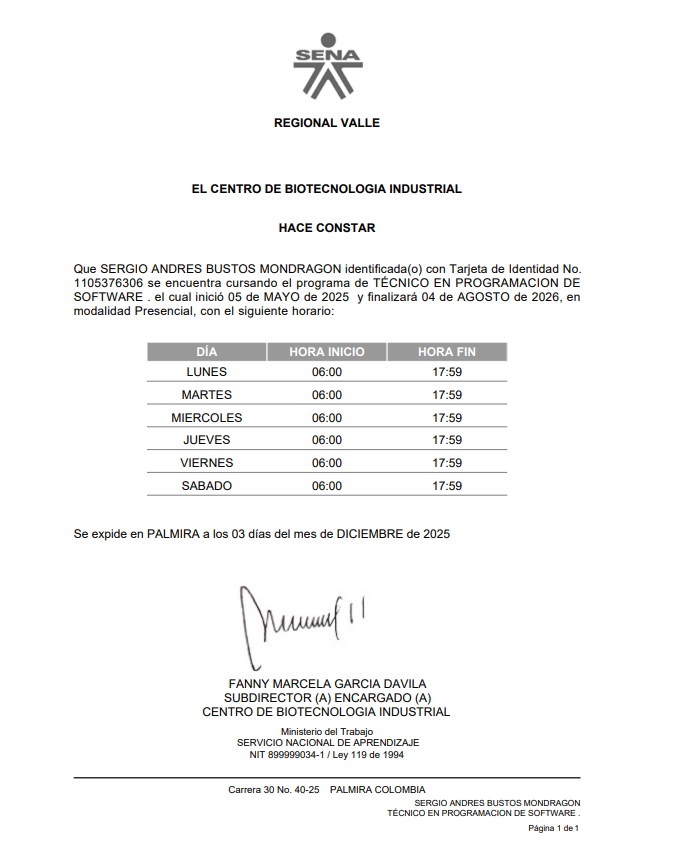
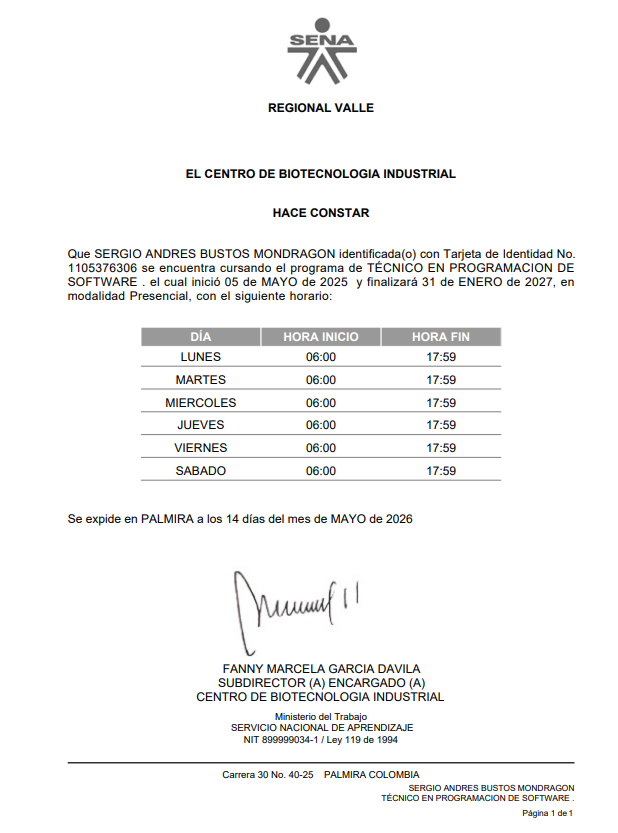
Portfolio actualizado!

Changed region(s): [[0.0922, 0.1873, 0.9223, 0.6555], [0.123, 0.6867, 0.9223, 0.9988], [0.3997, 0.0, 0.6149, 0.1561]]

diff --git a/index.html b/index.html
@@ -339,11 +339,6 @@
                                     <span class="exp-badge exp-badge-location"><i class="bi bi-geo-alt me-1"></i>Palmira, Colombia · Híbrido</span>
                                 </div>
                                 <p class="exp-desc">Desarrollo del Sistema de Carnetización Digital Institucional bajo marco de investigación SENNOVA.</p>
-                                <div class="exp-bullets">
-                                    <div class="exp-bullet"><span class="exp-bullet-dot"></span>Desarrollé componentes frontend responsivos en HTML/CSS y templates Jinja2 para el portal del aprendiz, incluyendo visualización condicional de carnets digitales según disponibilidad en base de datos.</div>
-                                    <div class="exp-bullet"><span class="exp-bullet-dot"></span>Contribuí al diseño y desglose técnico de historias de usuario en sprints SCRUM, abarcando módulos de generación de carnets, reportes mensuales y autenticación dentro de un sistema institucional Flask.</div>
-                                    <div class="exp-bullet"><span class="exp-bullet-dot"></span>Implementé exportación de reportes a Excel con openpyxl y participé en la definición de rutas Backend para consulta y descarga de carnets con validación por usuario.</div>
-                                </div>
                                 <div class="d-flex flex-wrap gap-2 mt-3">
                                     <span class="skill-tag">Python</span>
                                     <span class="skill-tag">Flask</span>
@@ -1202,6 +1197,59 @@
                 </div>
             </div>
             <!-- FIN: Proyecto Parking Center -->
+
+            <!-- ══════════════════════════════
+                 PROYECTO 5: Carnetización Digital (SENNOVA)
+            ══════════════════════════════ -->
+            <div class="col-md-4 reveal">
+                <div class="card h-100 card-hover project-card">
+                    <div class="carousel slide project-carousel" data-bs-ride="false" id="carouselCarnet">
+                        <div class="carousel-inner">
+                            <div class="carousel-item active">
+                                <img src="images/carnet/iniciodesesion.PNG" class="project-img" alt="Carnetización digital — inicio de sesión">
+                            </div>
+                            <div class="carousel-item">
+                                <img src="images/carnet/dashboard.PNG" class="project-img" alt="Carnetización digital — panel">
+                            </div>
+                            <div class="carousel-item">
+                                <img src="images/carnet/cargarfoto.PNG" class="project-img" alt="Carnetización digital — carga de foto">
+                            </div>
+                        </div>
+                        <button class="carousel-control-prev" data-bs-slide="prev" data-bs-target="#carouselCarnet" type="button">
+                            <span class="carousel-control-prev-icon" aria-hidden="true"></span>
+                        </button>
+                        <button class="carousel-control-next" data-bs-slide="next" data-bs-target="#carouselCarnet" type="button">
+                            <span class="carousel-control-next-icon" aria-hidden="true"></span>
+                        </button>
+                        <div class="carousel-indicators project-indicators">
+                            <button class="active" data-bs-slide-to="0" data-bs-target="#carouselCarnet" type="button"></button>
+                            <button data-bs-slide-to="1" data-bs-target="#carouselCarnet" type="button"></button>
+                            <button data-bs-slide-to="2" data-bs-target="#carouselCarnet" type="button"></button>
+                        </div>
+                    </div>
+                    <div class="card-body p-4 d-flex flex-column">
+                        <h5 class="fw-bold mb-1">Carnetización Digital Institucional</h5>
+                        <p class="project-type">FullStack · SENNOVA</p>
+                        <p class="text-muted small mb-2">Python · Flask · Jinja2 · HTML · CSS · openpyxl · SCRUM</p>
+                        <p style="font-size:0.92rem; flex:1;">Desarrollo del sistema de carnetización digital institucional bajo marco de investigación SENNOVA. 
+                        <div class="d-flex flex-wrap gap-1 my-3">
+                            <span class="skill-tag">Flask</span>
+                            <span class="skill-tag">SCRUM</span>
+                            <span class="skill-tag">openpyxl</span>
+                            <span class="skill-tag">ETL</span>
+                            <span class="skill-tag">Investigación y Desarrollo</span>
+                            <span class="skill-tag">JavaScript</span>
+                            <span class="skill-tag">Pandas</span>
+                            <span class="skill-tag">OpenCV</span>
+                            <span class="skill-tag">Etc</span>                            
+                        </div>
+                        <div class="d-flex gap-2">
+                            <a class="btn btn-primary btn-sm" href="https://github.com/Sergio-Bustos/carnet_flask" target="_blank" rel="noopener noreferrer"><i class="bi bi-github me-1"></i> GitHub</a>
+                        </div>
+                    </div>
+                </div>
+            </div>
+            <!-- FIN: Proyecto Carnetización Digital -->
 
         </div>
     </div>
